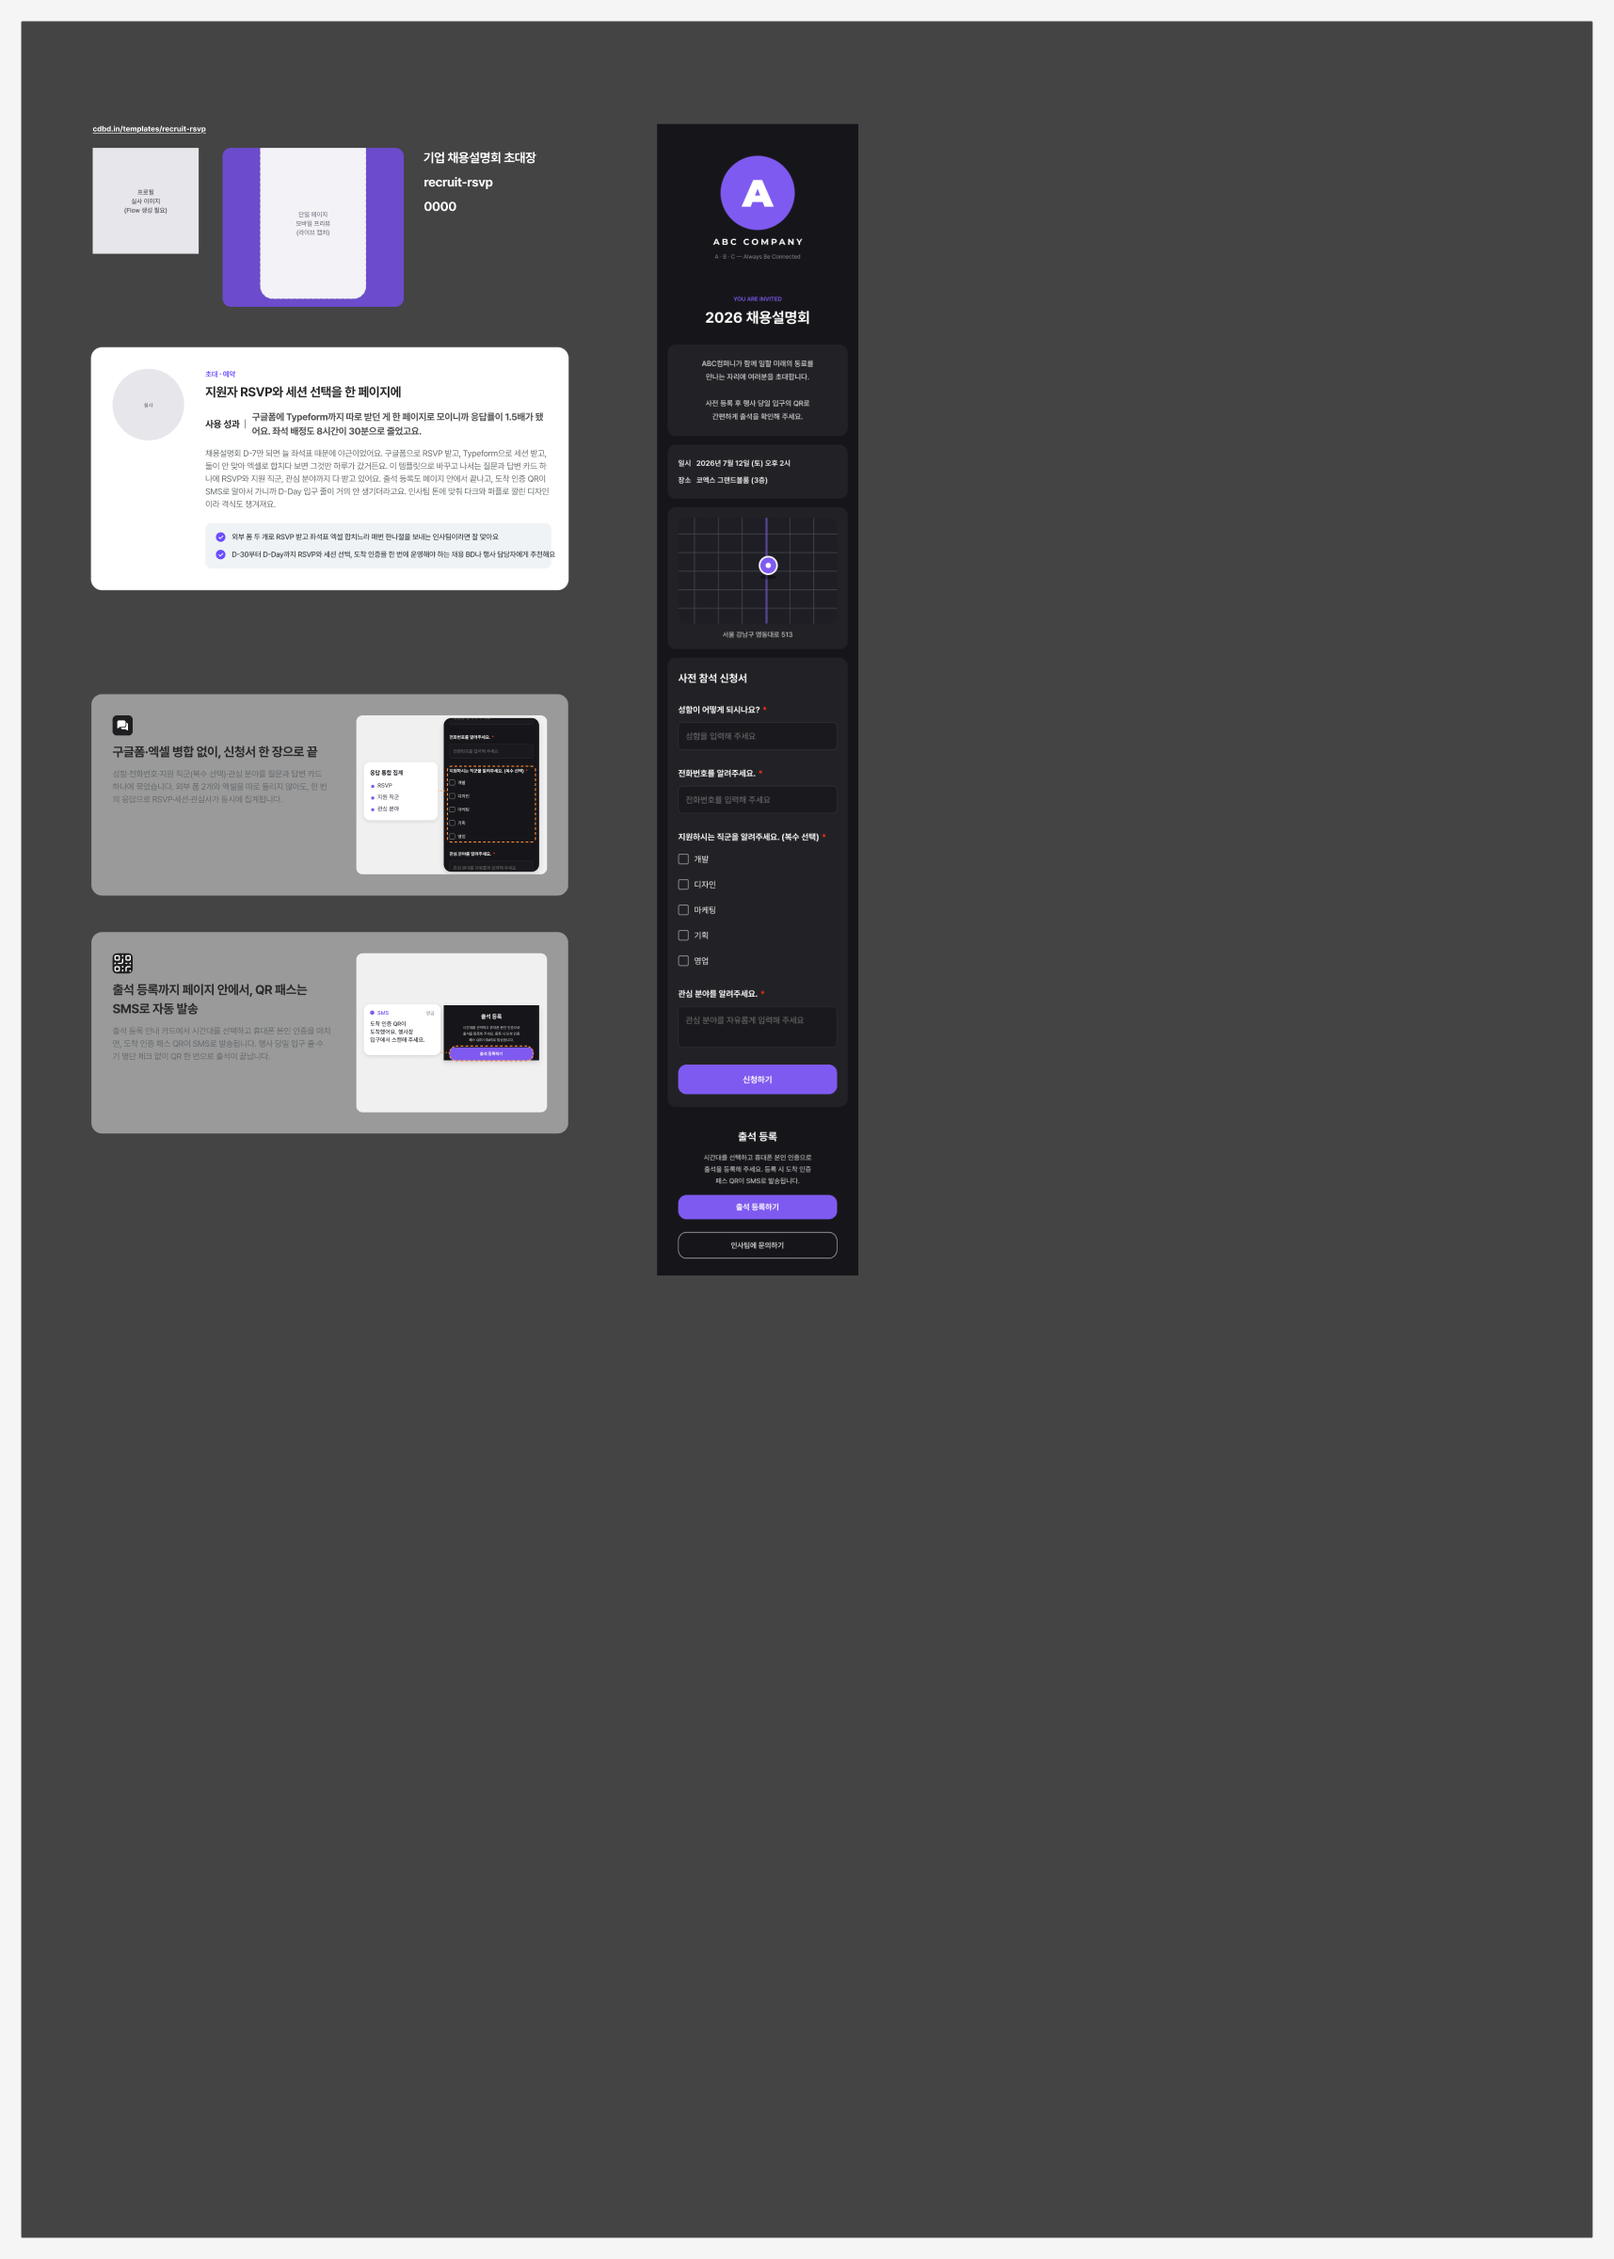
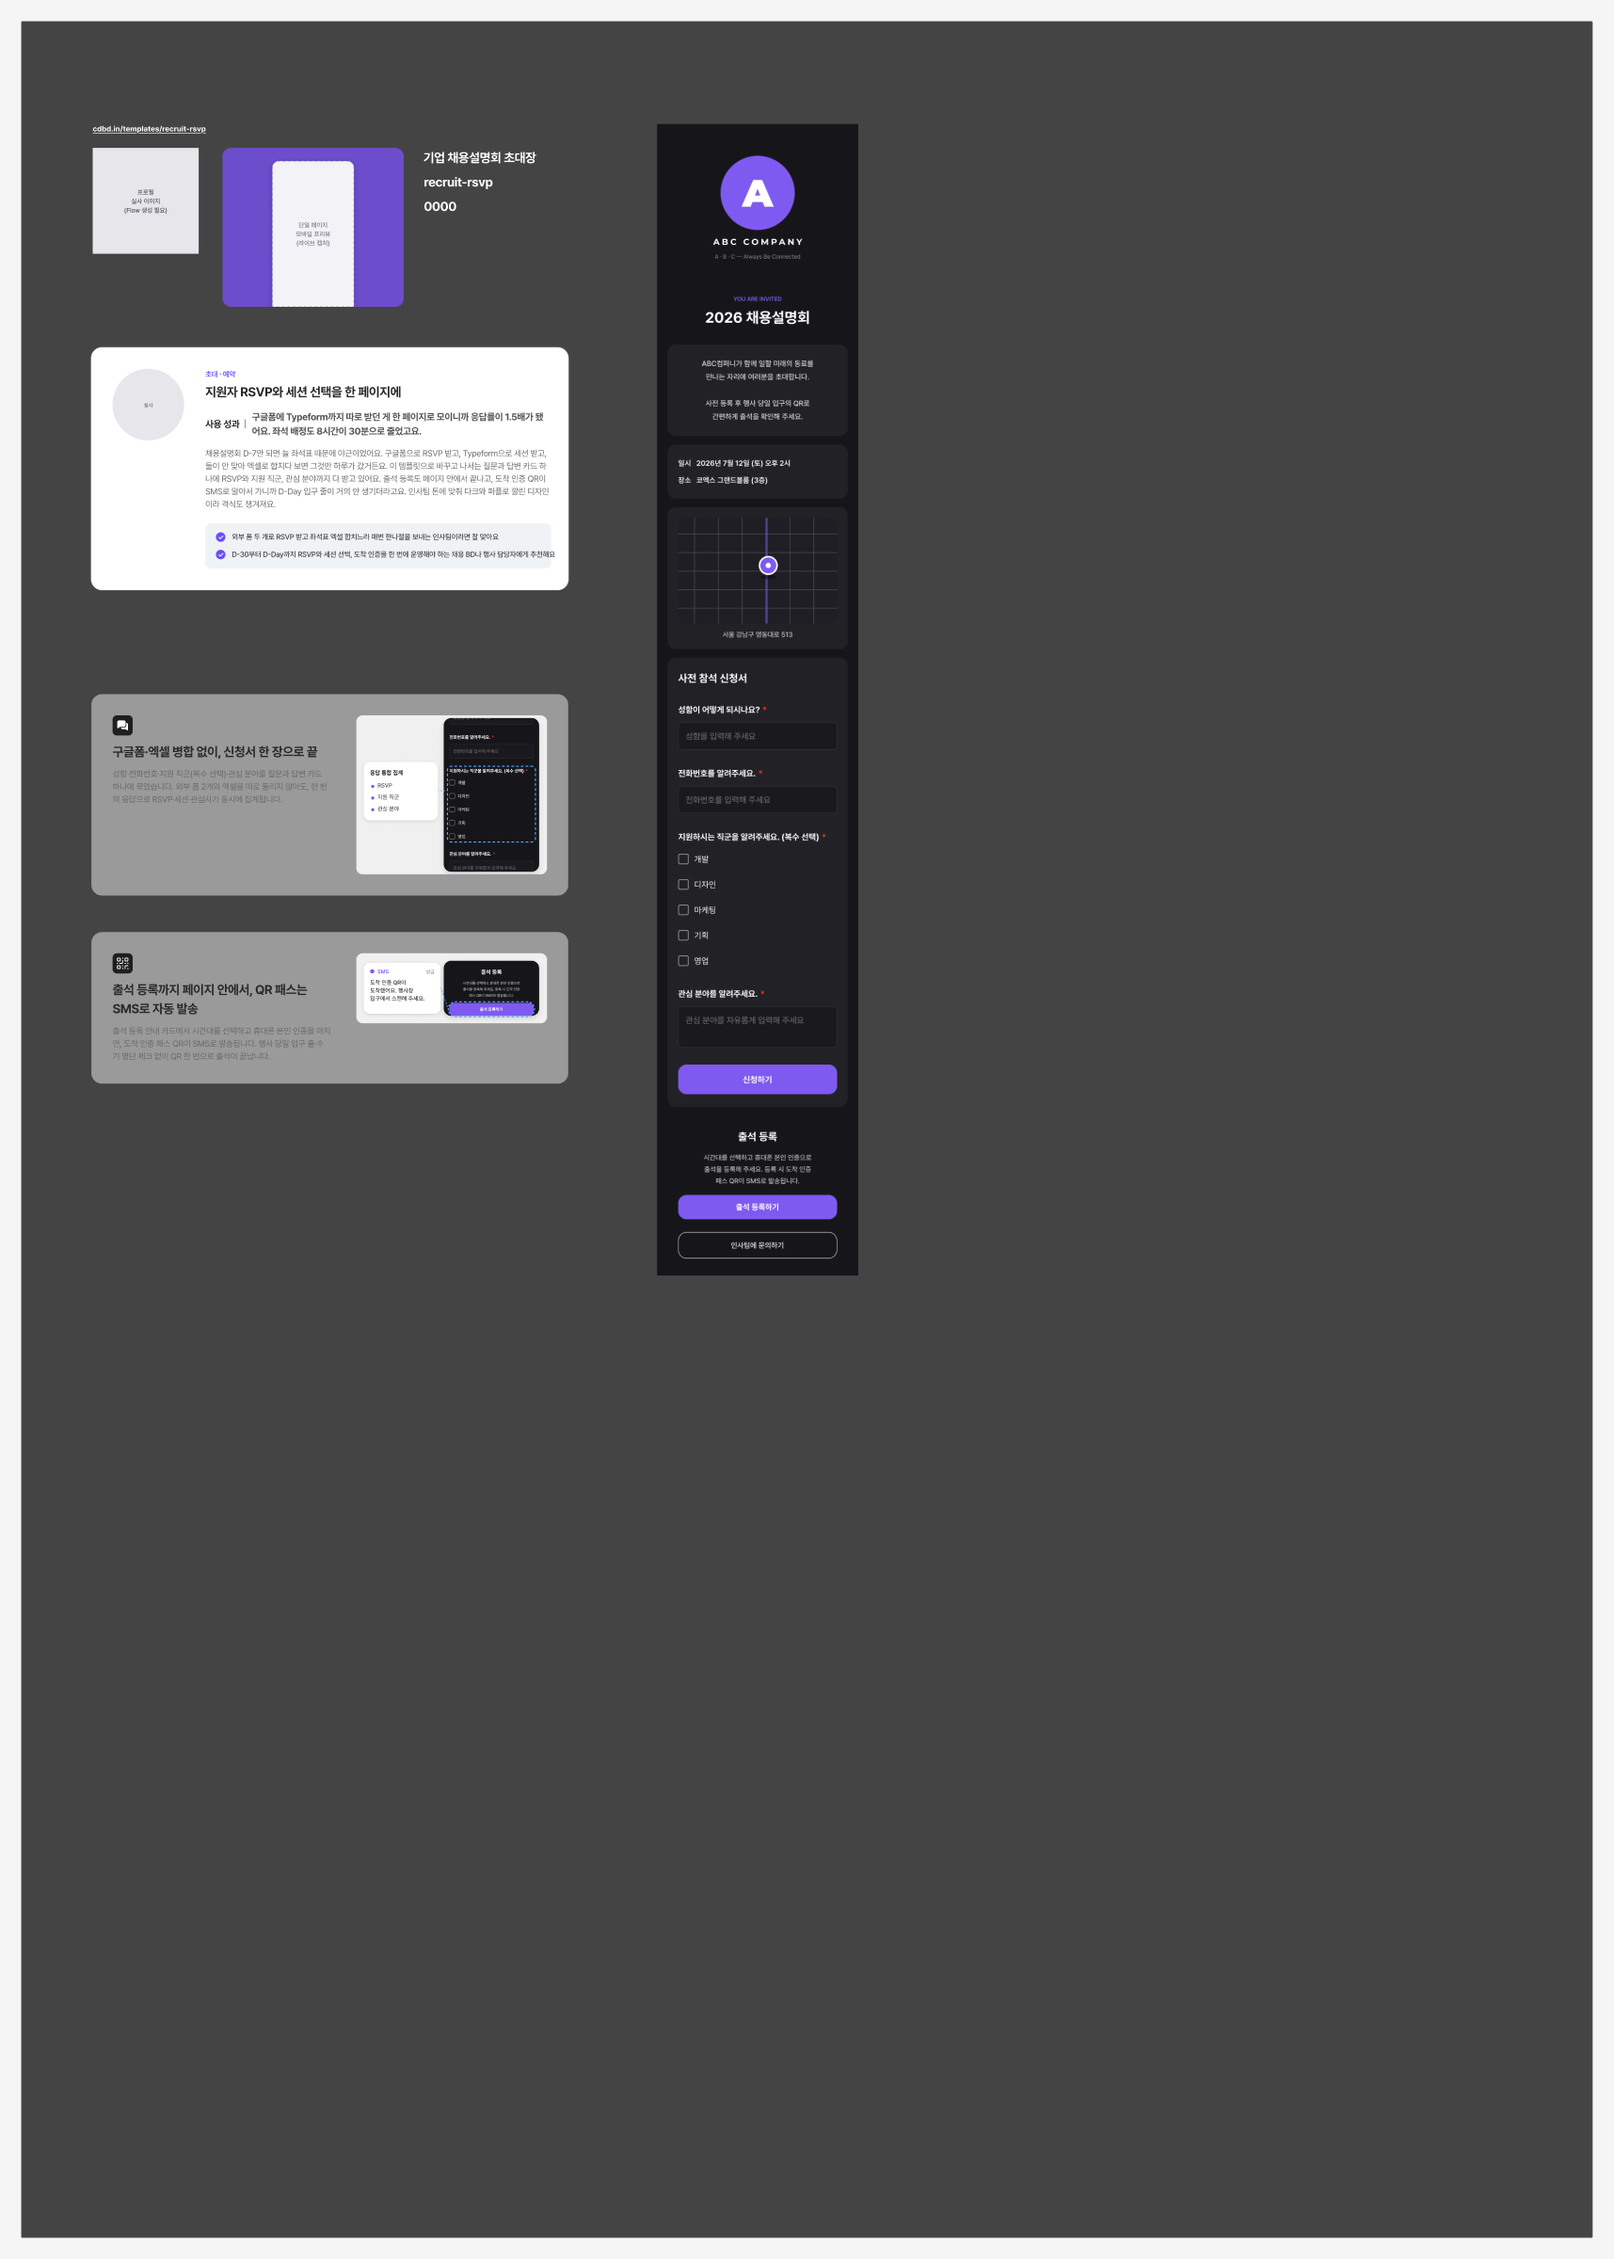
vault backup: 2026-06-18 17:26:47

Changed region(s): [[0.0309, 0.4062, 0.3708, 0.5], [0.1545, 0.0625, 0.2472, 0.1562]]

diff --git a/10.프로젝트/CdBd 템플릿/초대·예약/recruit-rsvp.md b/10.프로젝트/CdBd 템플릿/초대·예약/recruit-rsvp.md
@@ -80,7 +80,7 @@ related: "[[1-5. 템플릿 상세 페이지]], [[1-4. 에디터 페이지]], [[1
 | 설명 | 성함·전화번호·지원 직군(복수 선택)·관심 분야를 **질문과 답변 카드 하나**에 묶었습니다. 외부 폼 2개와 엑셀을 따로 돌리지 않아도, 한 번의 응답으로 RSVP·세션·관심사가 동시에 집계됩니다. |
 | 표시 순서 | 1 |
 | 아이콘 이미지 (38×38) | **Block Icon `Type=QnA`** (key `fa59b983…`) · 다크 라운드 컨테이너 + **WHITE 글리프** override. 컨테이너 dark `rgb(0.12,0.12,0.13)` 유지 |
-| 설명 이미지 (360×300) | **placeholder** (dashed border, 라벨 "주요기능-1 메인 이미지 / 사전 참석 신청서 — 핵심 기능 하이라이트 / (직군 복수 선택 + 응답 통합 집계 어노테이션)"). **신규 디자인 필요** — 단순 캡처 ❌, 다른 템플릿 패턴([주요기능-1 sample](https://www.figma.com/design/oi8zIHLfy59O5zV8aysqq4/CdBd-%ED%85%9C%ED%94%8C%EB%A6%BF-%EB%93%B1%EB%A1%9D?node-id=235-10965))처럼 mockup + 콜아웃/하이라이트 박스/오버레이 카드 조합 |
+| 설명 이미지 (360×300) | 모바일 mockup(Q&A form 직군 선택부) + 좌측 흰색 콜아웃("응답 통합 집계" + RSVP/지원 직군/관심 분야 bullet) + **BLUE (`#59A7FF`) dashed highlight** + connector. 360×300 유지 |
 
 ### 주요기능-2 — 출석 등록 + QR 패스 SMS
 | 필드 | 카피 |
@@ -89,7 +89,7 @@ related: "[[1-5. 템플릿 상세 페이지]], [[1-4. 에디터 페이지]], [[1
 | 설명 | 출석 등록 안내 카드에서 시간대를 선택하고 휴대폰 본인 인증을 마치면, 도착 인증 패스 QR이 SMS로 발송됩니다. 행사 당일 입구 줄·수기 명단 체크 없이 QR 한 번으로 출석이 끝납니다. |
 | 표시 순서 | 2 |
 | 아이콘 이미지 (38×38) | **`Icon/General/QR Code`** ([node 14159:12537](https://www.figma.com/design/9GM1FagjqiyrQHyHLBGoFj/CdBd-Design-System?node-id=14159-12537), key `44dcc3e6…`) · 다크 라운드 컨테이너 + **WHITE 글리프** override. QR 인증 핵심 메시지에 정합 |
-| 설명 이미지 (360×300) | **placeholder** (dashed border, 라벨 "주요기능-2 메인 이미지 / QR 출석 등록 + SMS 발송 흐름 / (출석 버튼 + QR SMS 알림 콜아웃)"). **신규 디자인 필요** — mockup + SMS 알림 카드 오버레이 + QR 영역 하이라이트 박스 조합 |
+| 설명 이미지 (360×**132**) | 모바일 mockup(출석 등록 카드) + 좌측 SMS 알림 콜아웃("도착 인증 QR이 도착했어요…") + **BLUE (`#59A7FF`) dashed pill highlight** (출석 등록하기 버튼) + connector. **부모 프레임 height = 132 (캡처 자식에 맞게 줄임)** — 출석 등록 source 340×196이 phone 180-width에 fit하면 자연 높이 104 → 패딩 14T/14B = 132 |
 
 ---
 
